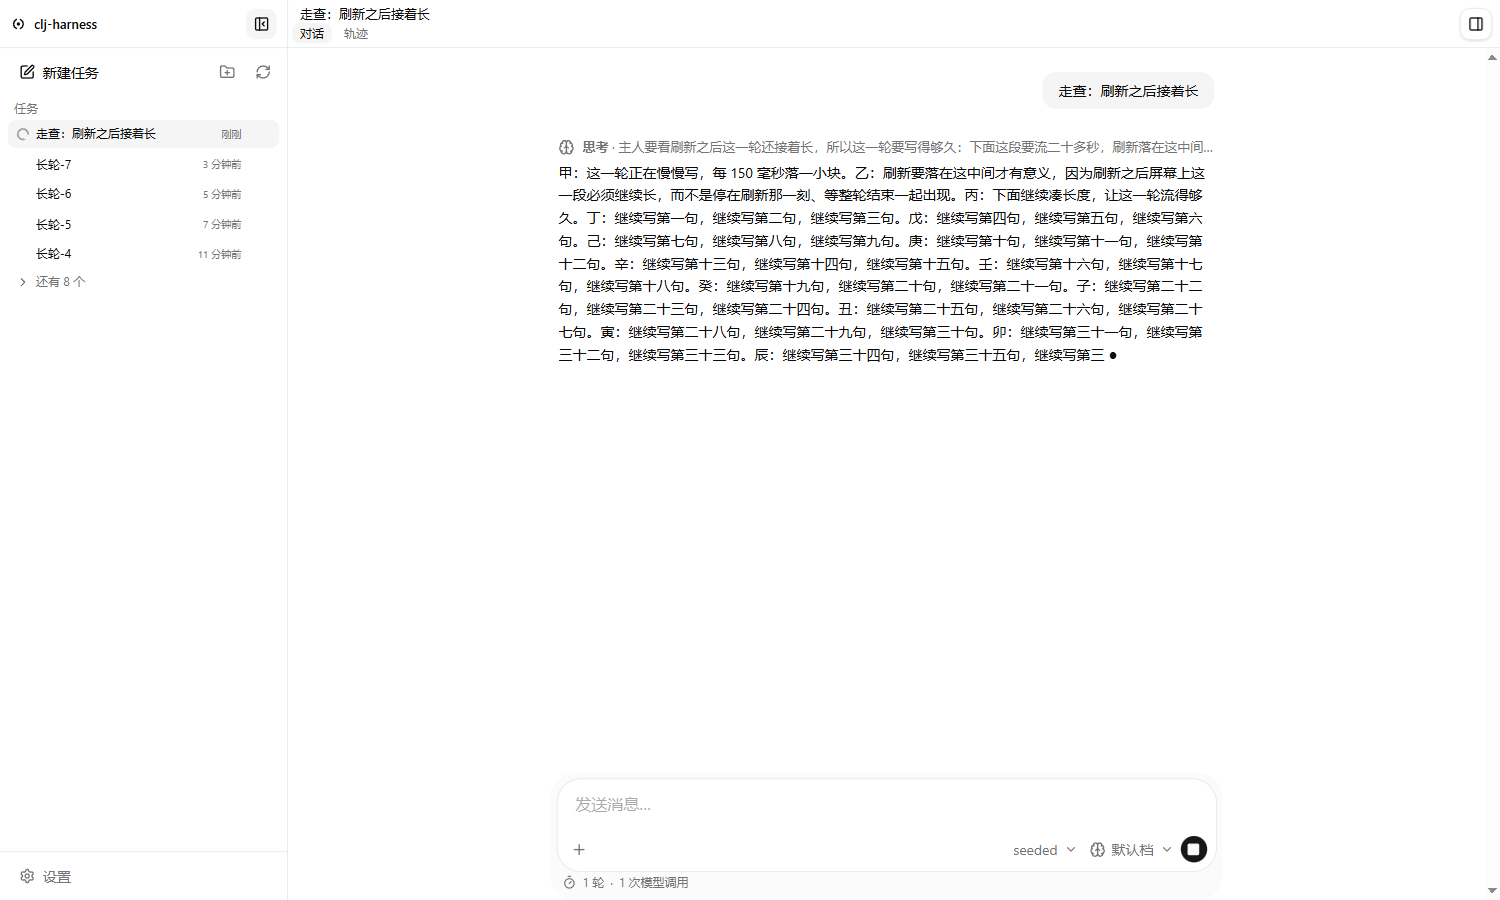
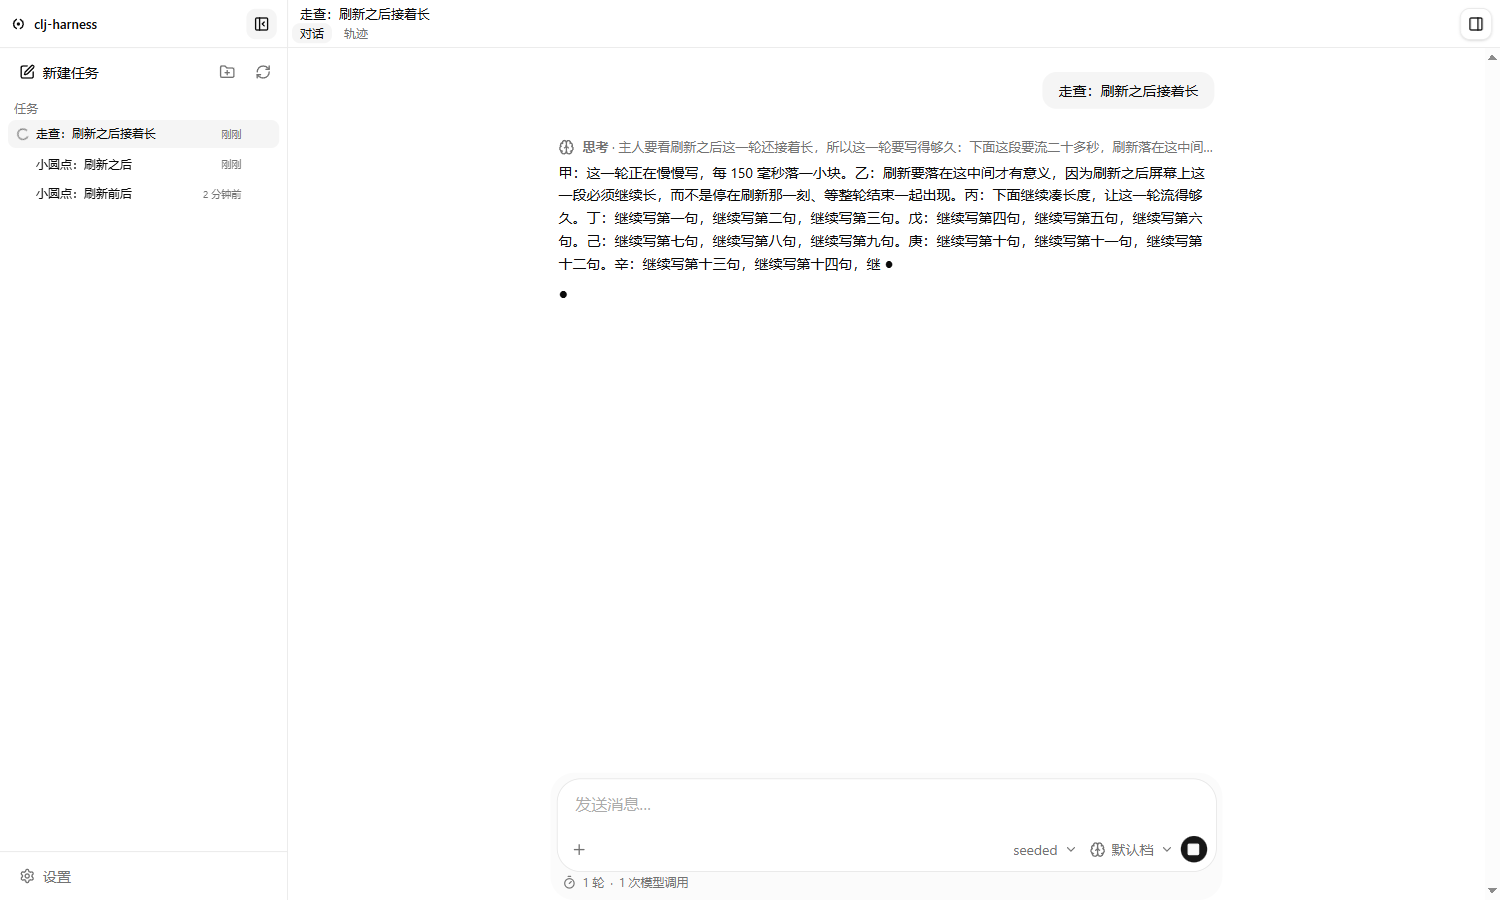
一个还在被写的 turn 摆「在写」那颗点，不是一个空位
主人一眼看出来的那一格：票 02 只把动作条藏掉了，turn 末尾于是留下一个**空位**——而空位和动作条
犯的是同一个错，都读作「写完了」。

现在 `AssistantMessage` 在 turn 末尾这一格**二选一**：还在被写 ⇒ `WorkingDot`（就是 upstream 在
「assistant 消息还没有 part」时画的那颗 `●`：同一个字形、同一个脉冲、同一个 `aria-label`「助手正在
工作」）；停了 ⇒ `AssistantActionBar`。两态都是 24px，动作条出现时不跳。判据仍是 `stillBeingWritten`
（本页自己的 run **或**窗口说的 `running`），与 composer 的门同源；`AssistantActionBar` 于是不再自己
`return null`（选画哪一个已经在上层决定了），upstream 的 `hideWhenRunning` 留着管它能说清的那一格
——本页自己驱动 run。

走查重跑（`walk.json`，`pace-ms` 150，截图三张已换新）：刷新之后 `running: 1` 的整段时间里
`[data-slot="aui_assistant-message-indicator"]` 在（`●`、`aria-label` = 助手正在工作、高 24px）而
`.aui-assistant-action-bar-root` 不在，答案同时 108 → 213 一路长；settle 之后反过来（圆点不在、动作条
24px）。本页自己驱动 run 的整段也一样。

Changed region(s): [[0.368, 0.28, 0.7973, 0.4044], [0.0307, 0.1556, 0.092, 0.2178], [0.0307, 0.28, 0.0613, 0.3111]]

diff --git a/ui/src/components/assistant-ui/elements/thread.aui.tsx b/ui/src/components/assistant-ui/elements/thread.aui.tsx
@@ -608,6 +608,13 @@ const AssistantMessage: FC = () => {
   const turnEnd = useAuiState(isTurnEnd);
   const continues = useAuiState(isStepAfter);
 
+  // LOCAL (ticket 02 of `.scratch/refreshed-turn-keeps-growing`): WHO IS WRITING THIS TURN,
+  // read here because the footer draws ONE OF TWO things with it -- the sign that the turn is
+  // still arriving, or the furniture that says it has stopped. See `stillBeingWritten`.
+  const runState = useContext(SessionRunContext);
+  const ownRunning = useAuiState((s) => s.thread.isRunning);
+  const writing = stillBeingWritten(ownRunning, runState);
+
   // LOCAL: the fold. A turn that has SETTLED puts its steps away -- every message
   // of it except the answer, which stays where it is -- and its first message
   // draws the one-line summary of what went away. `fold === "step"` is this whole
@@ -761,10 +768,33 @@ const AssistantMessage: FC = () => {
             THIS message, which is now the turn's last one -- the answer, which is
             what "regenerate" means to a reader. */}
         <AuiIf condition={isTurnEnd}>
-          <AssistantActionBar />
+          {writing ? <WorkingDot /> : <AssistantActionBar />}
         </AuiIf>
       </div>
     </MessagePrimitive.Root>
+  );
+};
+
+/// LOCAL (ticket 02 of `.scratch/refreshed-turn-keeps-growing`): THE SIGN THAT THIS TURN IS
+/// STILL ARRIVING, drawn where the action bar will take over.
+///
+/// IT IS THE DOT UPSTREAM ALREADY DRAWS while an assistant message has no parts yet (the
+/// `indicator` part `MessagePrimitive.Parts` adds): the same glyph, the same pulse, the same
+/// `aria-label`, so one state has one sign. What upstream cannot draw is that dot at the END
+/// of a turn that already has parts -- and that is exactly what a reload lands in: the answer
+/// is on screen, still growing, and the turn's furniture (Copy / Refresh / More) has not been
+/// earned yet. Before this, the row was simply EMPTY, which reads as 'it is done' -- the same
+/// mistake the action bar made, made by saying nothing.
+const WorkingDot: FC = () => {
+  const { t } = useTranslation("elements-thread");
+  return (
+    <span
+      data-slot="aui_assistant-message-indicator"
+      className="animate-pulse font-sans"
+      aria-label={t("message.working")}
+    >
+      {"●"}
+    </span>
   );
 };
 
@@ -778,18 +808,14 @@ const AssistantActionBar: FC = () => {
   // for 'this is finished', and a reload in the middle of somebody else's turn is exactly
   // where they used to appear (measured in a browser, 2026-09-25).
   //
-  // THE DECISION IS TAKEN HERE RATHER THAN HANDED TO `hideWhenRunning`, and that is the
-  // whole tuning: upstream's prop is ANDed with the RUNTIME's own `isRunning` -- `if
-  // (hideWhenRunning && s.thread.isRunning) return Hidden` -- and a run this page is only
-  // WATCHING is precisely the case where the runtime says false, so passing `true` hid
-  // nothing (measured: `hideWhenRunning={true}` with `thread.isRunning === false` drew the
-  // bar). The criterion is the composer's own (`stillBeingWritten`: this page's run OR the
-  // server's word), so the two surfaces cannot drift; the prop stays for the runtime's own
-  // case.
-  const serverState = useContext(SessionRunContext);
-  const ownRunning = useAuiState((s) => s.thread.isRunning);
+  // THE CHOICE IS THE FOOTER'S (`AssistantMessage`: `WorkingDot` while it is being written,
+  // this bar afterwards), rather than upstream's `hideWhenRunning`, and that is the whole
+  // tuning: that prop is ANDed with the RUNTIME's own `isRunning` -- `if (hideWhenRunning &&
+  // s.thread.isRunning) return Hidden` -- and a run this page is only WATCHING is precisely
+  // the case where the runtime says false, so passing `true` hid nothing (measured:
+  // `hideWhenRunning={true}` with `thread.isRunning === false` drew the bar). The prop stays
+  // for the runtime's own case, which is the one it can speak about.
   const { t } = useTranslation("elements-thread");
-  if (stillBeingWritten(ownRunning, serverState)) return null;
   return (
     <ActionBarPrimitive.Root
       hideWhenRunning

diff --git a/.scratch/refreshed-turn-keeps-growing/issues/02-the-action-bar-waits-for-a-run-that-is-not-ours.md b/.scratch/refreshed-turn-keeps-growing/issues/02-the-action-bar-waits-for-a-run-that-is-not-ours.md
@@ -13,17 +13,26 @@
 
 **Blocked by:** 01（票 01 没落地之前，这一轮根本不长，藏不藏按钮都不是重点）。
 
-**Status:** 已落地（2026-09-25）。**落地时学到的**：upstream 的 `hideWhenRunning` **不能**用来表达这条
-判据——它是 `hideWhenRunning && s.thread.isRunning`，而「本页只是看着」正是 runtime 说 false 的那一格，
-所以传 `true` 什么也没藏（浏览器实测，见票面下方）。现在的做法是**在这个组件里决定不画**：
-`if (stillBeingWritten(...)) return null`，`hideWhenRunning` 留着管本页自己驱动 run 那一格。
+**Status:** 已落地（2026-09-25）。
 
-- [x] 服务端说这一场 `running`、而本页没有自己的 run 时，正在写的那一轮不画动作条。走查实测：
-      刷新落进一场还在跑的会话后，sidebar 那行 `running: 1` 的整段时间里动作条高度一直是空（不在），
-      `evidence/01-…png`、`02-…png`。
-- [x] run 结束（窗口说 `settled`）之后动作条自己回来：同一次走查 settle 后 24px 高。
-- [x] 本页自己驱动 run 时行为不变（`hideWhenRunning` 那条路照旧藏，走查 send 之后一直到刷新前都不在）。
+**落地时学到的两件事。**
+
+1. upstream 的 `hideWhenRunning` **不能**用来表达这条判据——它是
+   `hideWhenRunning && s.thread.isRunning`，而「本页只是看着」正是 runtime 说 false 的那一格，所以传
+   `true` 什么也没藏（浏览器实测，见票面下方）。现在是**选画哪一个**：`AssistantMessage` 在 turn 末尾这一格
+   二选一。
+2. **光把动作条藏掉还不够，那一格会留下一个空位**——而空位和动作条犯的是同一个错：都读作「写完了」。主人
+   一眼就看出来了：那里应该是**那颗「在写」的小圆点**（upstream 在 assistant 消息还没有 part 时画的那颗
+   `●`：同一个字形、同一个脉冲、同一个 `aria-label`）。所以落地的形状是 `WorkingDot` ⇄ `AssistantActionBar`
+   二选一，两态都是 24px，动作条出现时不跳。
+
+- [x] 服务端说这一场 `running`、而本页没有自己的 run 时，正在写的那一轮**画一颗 `●`**、不画动作条。走查
+      实测：刷新落进一场还在跑的会话后，sidebar 那行 `running: 1` 的整段时间里 `.aui-assistant-action-bar-root`
+      不在、`[data-slot="aui_assistant-message-indicator"]` 在（`●`、`aria-label` = 助手正在工作、高 24px），
+      `evidence/01-…png`、`02-…png`。本页自己驱动 run 的整段也一样（走查实测）。
+- [x] run 结束（窗口说 `settled`）之后圆点换成动作条：同一次走查 settle 后圆点不在、动作条 24px 高
+      （`evidence/03-…png`）。
 - [x] 客户端用例：`ui/test/suites/running.tsx` 的
       `a-turn-the-server-is-writing-is-not-a-finished-turn-and-wears-no-action-bar`（本页的读数与服务端的
       词取或，和 composer 的门同源：都走 `lib/session-status.ts`）。
-- [x] 真浏览器走查：刷新回到一场正在跑的会话，断言刷新后这段时间里动作条不在；跑完出现（截图三张）。
+- [x] 真浏览器走查：刷新回到一场正在跑的会话，断言刷新后这段时间里圆点在、动作条不在、答案在长；跑完反过来

diff --git a/docs/architecture/client.md b/docs/architecture/client.md
@@ -187,12 +187,13 @@ chunk，把客户端永远卡在「运行中」——实测数字见 `scripts/de
   答案因此接着长（这就是「刷新回来那一轮冻住、结束才一股脑出来」那一格）。**一模一样**地再回来（行还没落盘、
   游标过不去）仍旧什么都不改：窗口按**原身份**返回，不 import、不重渲染。没有 id 的条目一律留着——替两条
   无名消息认一个身份，是这一侧没有的凭据。
-- **一个正在被人写的 turn 不摆动作条**：判据与 composer 的门**同源**（`lib/session-status.ts` 的
-  `stillBeingWritten`：本页自己的 run **或**窗口说的 `running`），所以刷新回来那一轮在写完之前不会被画成
-  成品（复制 / 重新生成 / 更多）。**这一格不能交给 upstream 的 `hideWhenRunning`**：它是
-  `hideWhenRunning && s.thread.isRunning`，而「本页只是看着」正是 runtime 说 false 的那一格（实测：传
-  `true` 照样画出来），所以 `thread.aui.tsx` 里是**组件自己 `return null`**，那个 prop 留着管本页自己驱动
-  run 那一格。
+- **一个正在被人写的 turn 摆的是「在写」那颗点，不是一个空位、更不是动作条**：`thread.aui.tsx` 的
+  `AssistantMessage` 在 turn 末尾这一格二选一——`WorkingDot`（就是 upstream 在「assistant 消息还没有 part」
+  时画的那颗 `●`：同一个字形、同一个脉冲、同一个 `aria-label`）或 `AssistantActionBar`。判据与 composer 的
+  门**同源**（`lib/session-status.ts` 的 `stillBeingWritten`：本页自己的 run **或**窗口说的 `running`）。
+  **这一格不能交给 upstream 的 `hideWhenRunning`**：它是 `hideWhenRunning && s.thread.isRunning`，而「本页只是
+  看着」正是 runtime 说 false 的那一格（实测：传 `true` 照样画出来），所以是组件自己选画哪一个。一个空位和
+  动作条犯的是同一个错：都读作「写完了」。
 - **「显示更早」一次一页，而且必须锚定**：补页是 `prepend`，会把它下面的一切往下推，所以问之前量、
   答之后修（`lib/window-scroll.ts`），一次也只有一个在飞（按钮的禁用态就是这一条）。**锚点是一条
   消息的文本，不是它的 DOM 节点**：assistant-ui 按位置保留消息节点，用节点当锚会算错——量到过节点

diff --git a/.scratch/refreshed-turn-keeps-growing/spec.md b/.scratch/refreshed-turn-keeps-growing/spec.md
@@ -66,5 +66,6 @@
   而且 ring 的那一瞬记录里**已经有这个 run 的帧**（没有票 03 就一条都没有）。
 - 实测脚本 `dev/scratch_refresh_watch.clj`：run 跑着取样，回答的字节数一路涨、ring 数一路涨。
 - 真浏览器走查：`node scripts/dev.mjs --scripted walk.json`（脚本带 `pace-ms` 让回答慢慢流），run 跑到一半
-  整页刷新，断言刷新之后屏幕上的回答文本**在变长**、动作条不在，跑完动作条回来。
+  整页刷新，断言刷新之后屏幕上的回答文本**在变长**、turn 末尾摆的是**「在写」那颗 `●`** 而不是动作条
+  （空位也算错：主人指出来过），跑完 `●` 换成动作条（两态都是 24px，不跳）。
 - `cd ui && npm test` / `npm run typecheck` / `npm run build`；`clojure -M:test -m harness.test-runner`。
